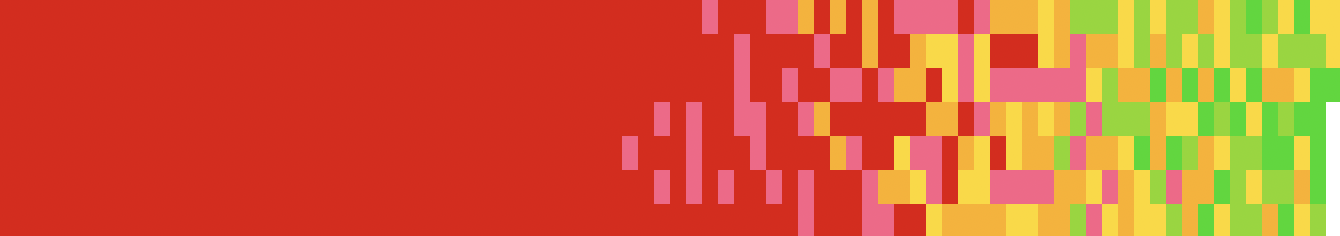
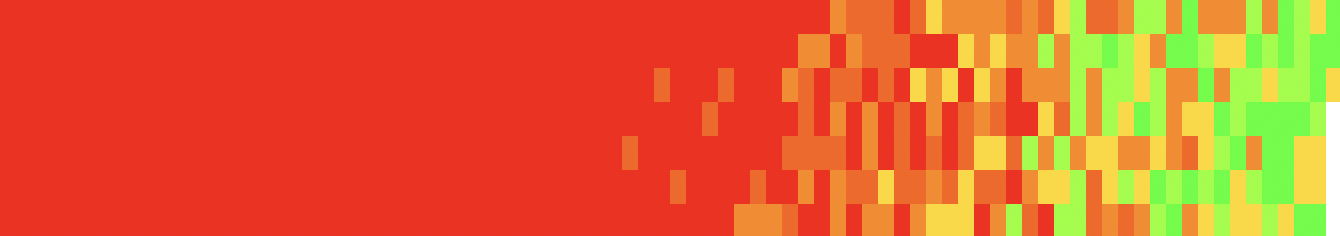
use more consistent colour codes (#5)

diff --git a/main.go b/main.go
@@ -21,12 +21,12 @@ const (
 )
 
 const (
-	green3 = "\033[38;5;10m\033[48;5;10m"   // brightest green
-	green2 = "\033[38;5;112m\033[48;5;112m" //
+	green3 = "\033[38;5;46m\033[48;5;46m"   // green
+	green2 = "\033[38;5;118m\033[48;5;118m" //
 	green1 = "\033[38;5;220m\033[48;5;220m" // yellow
-	red1   = "\033[38;5;214m\033[48;5;214m" // orange
-	red2   = "\033[38;5;204m\033[48;5;204m" //
-	red3   = "\033[38;5;9m\033[48;5;9m"     // darkest red
+	red1   = "\033[38;5;208m\033[48;5;208m" // orange
+	red2   = "\033[38;5;202m\033[48;5;202m" //
+	red3   = "\033[38;5;196m\033[48;5;196m" // red
 )
 
 var colours = []string{
